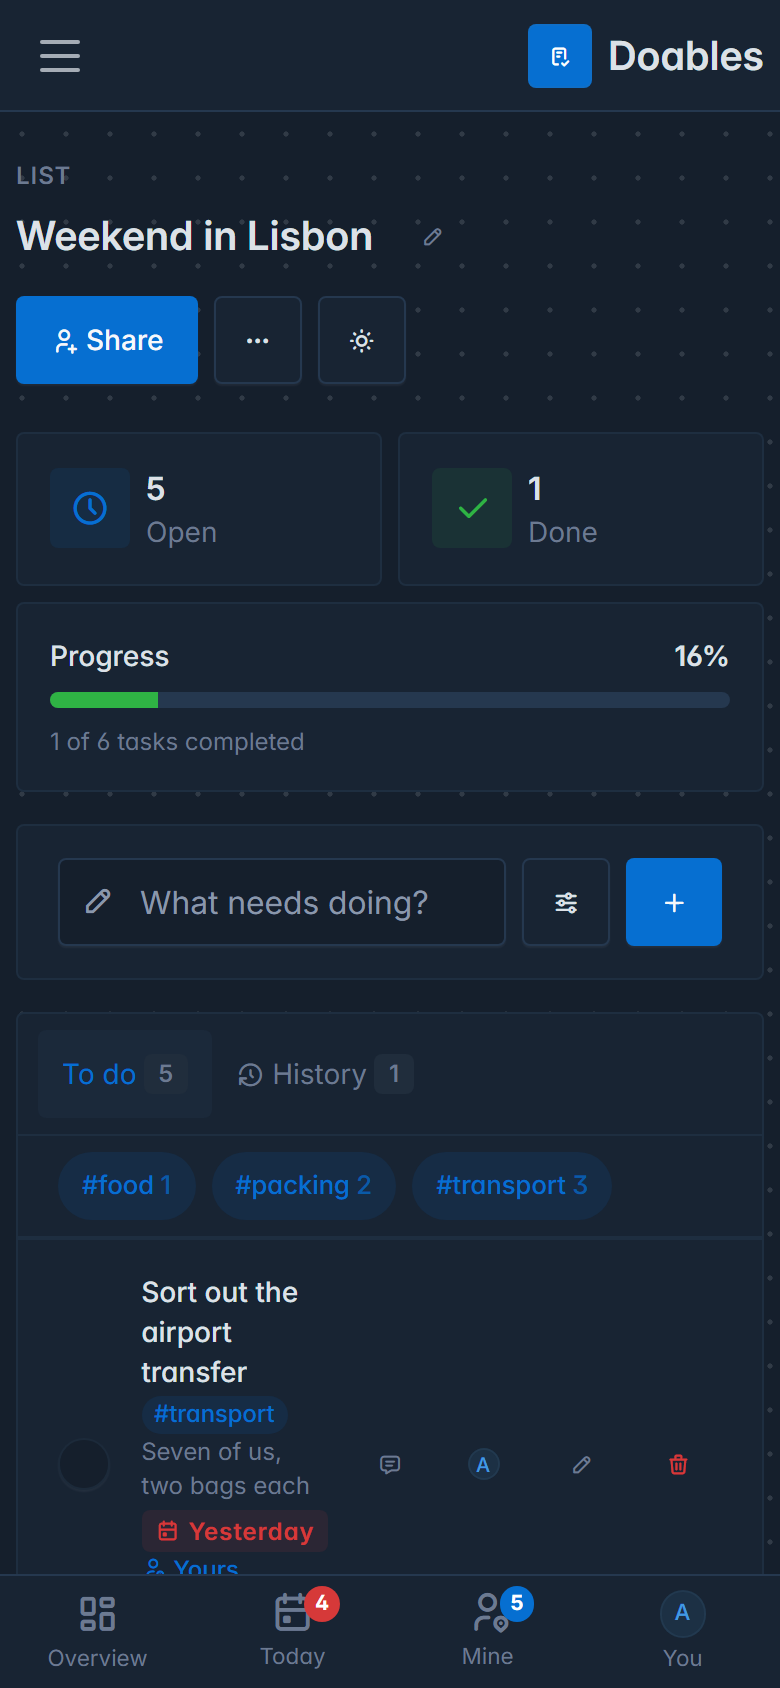
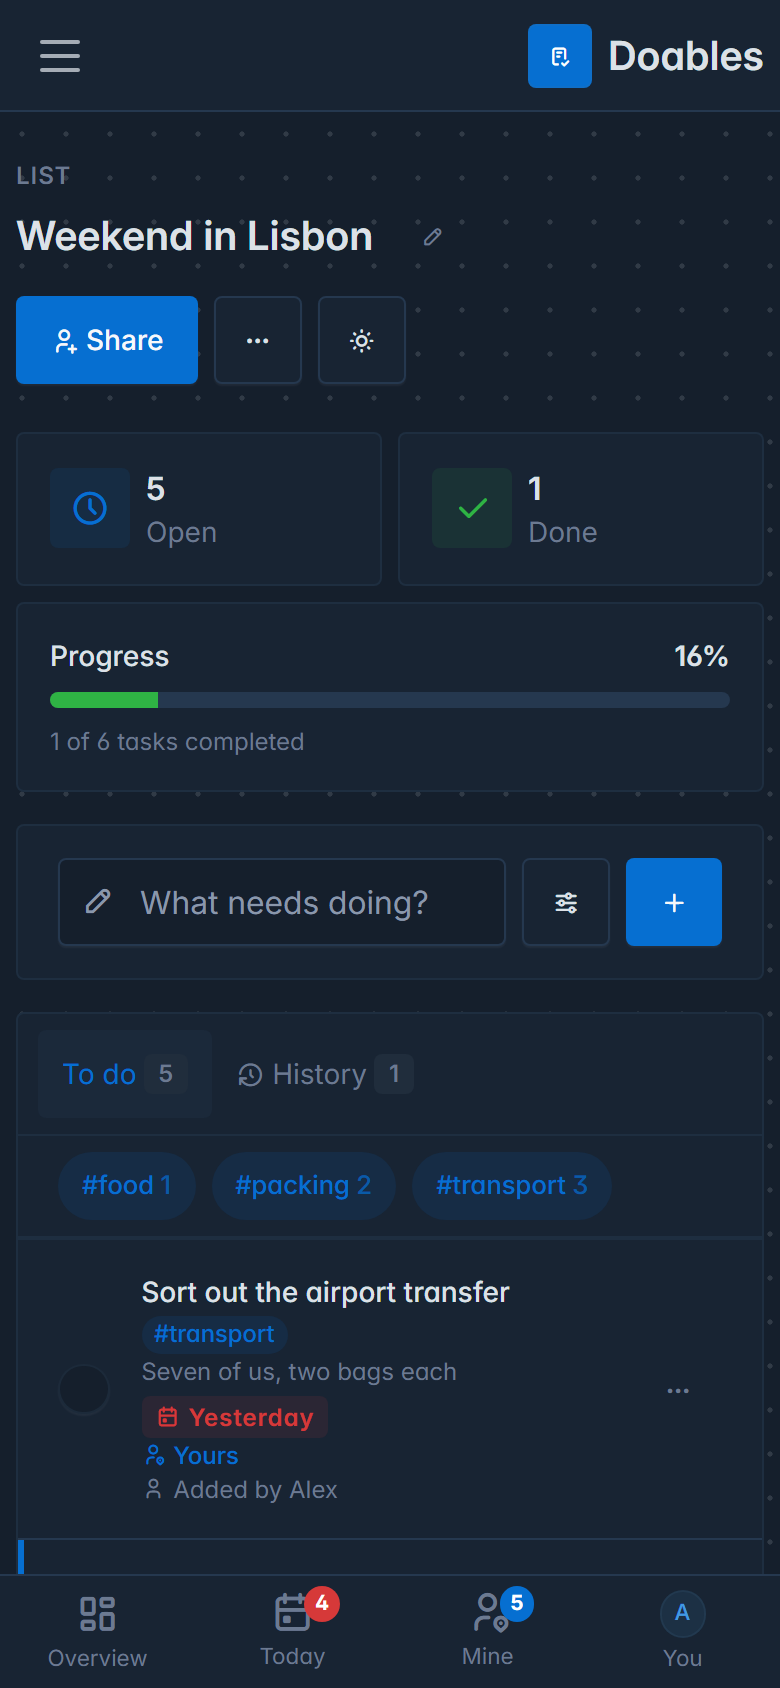
Fold a task's actions into a "more" menu on phones
On a phone the four action buttons (comment, assign, edit, delete) took
about 190px of each row, leaving the title a column narrow enough to break
words in half ("somewhe-re"). They now sit behind one "more" button, and
the title gets the width of the screen (215px, up from about 70).

The menu is the same four buttons, shown as a labelled list, so no row
carries its actions twice. Choosing an action closes it, except opening
the assign list, which opens on top. Tapping elsewhere or Esc closes it,
only one is open at a time, and live updates wait while it is open, as
they do for any open menu. Larger screens are unchanged.

Also fixes live updates stopping after an edit was cancelled with Esc:
the cursor stayed in the now-hidden title field, so the page thought you
were still typing and held back every update until you clicked somewhere.
Esc now returns the cursor to where the edit started, and fields that are
not on screen no longer count as being typed in.

diff --git a/internal/web/templates/partials.html b/internal/web/templates/partials.html
@@ -31,6 +31,7 @@
     .task-row { transition: background .15s; }
     .task-row:hover { background: var(--tblr-bg-surface-secondary); }
     .task-row .task-actions { opacity: 0; transition: opacity .15s; }
+    .task-more { display: none; }
     .task-row:hover .task-actions, .task-row:focus-within .task-actions { opacity: 1; }
     @media (hover: none) { .task-row .task-actions { opacity: 1; } }
     .task-done .task-title { text-decoration: line-through; color: var(--tblr-secondary); }
@@ -180,6 +181,24 @@
       .row > .task-thread-col { padding-left: calc(1.6rem + 1.5rem); }
       .thread-body { padding-left: .5rem; }
       .dropdown-item { padding: .75rem 1rem; }
+      /* A task's actions: one "more" button, opening a menu of them */
+      .task-row .task-more { display: inline-flex; }
+      .task-actions-wrap { position: relative; }
+      .task-row .task-actions { display: none !important; }
+      .task-row.menu-open .task-actions {
+        display: flex !important; flex-direction: column; align-items: stretch; gap: 0 !important; opacity: 1;
+        position: absolute; right: 0; top: calc(100% + .25rem); z-index: 1040; min-width: 13rem; padding: .35rem 0;
+        background: var(--tblr-bg-surface); border: 1px solid var(--tblr-border-color);
+        border-radius: var(--tblr-border-radius); box-shadow: var(--tblr-box-shadow-dropdown, 0 16px 24px rgba(0,0,0,.12)); }
+      .task-row.menu-open .task-actions .btn {
+        width: 100%; height: auto; min-height: 44px; justify-content: flex-start; gap: .75rem;
+        padding: 0 1rem; border-radius: 0; font-size: .9375rem; }
+      .task-row.menu-open .task-actions .btn::after { content: attr(data-label); font-weight: 400; }
+      /* a light highlight, like any menu, rather than the dark pressed button */
+      .task-row.menu-open .task-actions .btn-ghost-secondary:is(:hover, :active, .show) {
+        background: var(--tblr-bg-surface-secondary); color: var(--tblr-body-color); }
+      .task-row.menu-open .task-actions .btn .avatar { width: 1.25rem; height: 1.25rem; font-size: .65rem; }
+      .task-row.menu-open .task-actions form, .task-row.menu-open .task-actions .dropdown { width: 100%; }
       .tag-bar .hashtag { padding: .45rem .75rem; }
       /* quick-add: just the title and a button; description and date sit behind the details toggle */
       #add-task-form .add-extra { display: none; }
@@ -228,14 +247,19 @@
       <span class="badge {{dueClass .DueDate $.Today .Done}}" title="Due {{.DueDate}}"><i class="ti ti-calendar-event me-1"></i>{{dueLabel .DueDate $.Today .Done}}</span>
     </div>
     {{end}}
-    <div class="col-auto task-actions d-flex gap-1">
+    <!-- On a phone the actions fold away behind one "more" button, so the
+         title keeps the width; the menu it opens is these same buttons. -->
+    <div class="col-auto task-actions-wrap">
+    <button type="button" class="btn btn-icon btn-ghost-secondary task-more" aria-expanded="false" aria-controls="actions-{{.ID}}" title="More" aria-label="Actions for this task"><i class="ti ti-dots"></i></button>
+    <div class="task-actions d-flex gap-1" id="actions-{{.ID}}">
       {{if $.ShowThread}}
-      <button type="button" class="btn btn-icon btn-sm btn-ghost-secondary" data-open-thread="{{.ID}}" title="Comment" aria-label="Comment on this task"><i class="ti ti-message"></i></button>
+      <button type="button" class="btn btn-icon btn-sm btn-ghost-secondary" data-open-thread="{{.ID}}" title="Comment" aria-label="Comment on this task" data-label="Comment"><i class="ti ti-message"></i></button>
       {{end}}
       {{if $.Members}}
       <div class="dropdown">
         <button type="button" class="btn btn-icon btn-sm btn-ghost-secondary" data-bs-toggle="dropdown" aria-expanded="false"
-                title="{{if .AssigneeID}}For {{.Assignee}}{{else}}Give this to someone{{end}}" aria-label="Assign this task">
+                title="{{if .AssigneeID}}For {{.Assignee}}{{else}}Give this to someone{{end}}" aria-label="Assign this task"
+                data-label="{{if .AssigneeID}}For {{.Assignee}}{{else}}Give to someone{{end}}">
           {{if .AssigneeID}}<span class="avatar avatar-xs rounded-circle bg-{{color .AssigneeID}}-lt">{{initial .Assignee}}</span>
           {{else}}<i class="ti ti-user-plus"></i>{{end}}
         </button>
@@ -256,11 +280,12 @@
         </div>
       </div>
       {{end}}
-      <button type="button" class="btn btn-icon btn-sm btn-ghost-secondary" data-edit-toggle title="Edit task" aria-label="Edit task"><i class="ti ti-pencil"></i></button>
+      <button type="button" class="btn btn-icon btn-sm btn-ghost-secondary" data-edit-toggle title="Edit task" aria-label="Edit task" data-label="Edit"><i class="ti ti-pencil"></i></button>
       <form method="post" action="/tasks/{{.ID}}/delete" data-inplace data-undo>
         <input type="hidden" name="next" value="{{$.Path}}">
-        <button type="submit" class="btn btn-icon btn-sm btn-ghost-danger" title="Delete task" aria-label="Delete task"><i class="ti ti-trash"></i></button>
+        <button type="submit" class="btn btn-icon btn-sm btn-ghost-danger" title="Delete task" aria-label="Delete task" data-label="Delete"><i class="ti ti-trash"></i></button>
       </form>
+    </div>
     </div>
     {{if $.ShowThread}}
     <!-- The conversation gets a line of its own under the task, so on a phone

diff --git a/internal/web/templates/page.html b/internal/web/templates/page.html
@@ -570,8 +570,11 @@
     // after posting that is exactly where the cursor rests: treating it as
     // busy would stop replies appearing until you clicked somewhere else.
     var idleBox = commentBox(a) && a.value === '';
-    if (a && el.contains(a) && /^(INPUT|TEXTAREA|SELECT)$/.test(a.tagName) && a.type !== 'checkbox' && !idleBox) return true;
-    if (el.querySelector('.dropdown-menu.show')) return true; // a menu is open: don't yank it away
+    // A field that is no longer on screen (an edit cancelled with Esc) is not
+    // being typed in, even if the cursor was left behind in it.
+    var shown = a && a.offsetParent !== null;
+    if (a && shown && el.contains(a) && /^(INPUT|TEXTAREA|SELECT)$/.test(a.tagName) && a.type !== 'checkbox' && !idleBox) return true;
+    if (el.querySelector('.dropdown-menu.show, .task-row.menu-open')) return true; // a menu is open: don't yank it away
     return !!el.querySelector('.is-editing');
   }
 
@@ -770,6 +773,34 @@
     }
   });
 
+  // ---- a task's "more" menu, on phones ----
+  function closeTaskMenus() {
+    var closed = false;
+    document.querySelectorAll('.task-row.menu-open').forEach(function (row) {
+      row.classList.remove('menu-open');
+      row.querySelector('.task-more').setAttribute('aria-expanded', 'false');
+      closed = true;
+    });
+    if (closed) flushPending();
+  }
+
+  document.addEventListener('click', function (e) {
+    var more = e.target.closest('.task-more');
+    if (more) {
+      var row = more.closest('.task-row');
+      var opening = !row.classList.contains('menu-open');
+      closeTaskMenus();
+      if (opening) {
+        row.classList.add('menu-open');
+        more.setAttribute('aria-expanded', 'true');
+      }
+      return;
+    }
+    var inMenu = e.target.closest('.task-row.menu-open .task-actions');
+    // Anything but opening the assign list inside the menu is done with it.
+    if (!inMenu || !e.target.closest('[data-bs-toggle="dropdown"]')) closeTaskMenus();
+  }, true);
+
   // ---- inline editing ----
   document.addEventListener('click', function (e) {
     // "Show more" fetches the longer page and swaps it in, so the tasks you
@@ -805,7 +836,7 @@
         var input = scope.querySelector('[data-edit-form] input[type=text]');
         if (input) { input.focus(); input.select(); }
       } else {
-        flushPending();
+        stopEditing(scope);
       }
       return;
     }
@@ -844,10 +875,24 @@
     }
   });
 
+  // stopEditing puts the cursor back where the edit started (the pencil, or
+  // on a phone the task's "more" button), rather than in a form that is no
+  // longer on screen, and lets through live updates held back meanwhile.
+  function stopEditing(scope) {
+    scope.classList.remove('is-editing');
+    var back = scope.querySelector('[data-edit-view] [data-edit-toggle]');
+    if (!back || back.offsetParent === null) back = scope.querySelector('.task-more');
+    if (back && back.offsetParent !== null) back.focus();
+    else if (document.activeElement && document.activeElement.blur) document.activeElement.blur();
+    flushPending();
+  }
+
   document.addEventListener('keydown', function (e) {
     if (e.key !== 'Escape') return;
+    var openMenu = document.querySelector('.task-row.menu-open .task-more');
+    if (openMenu) { closeTaskMenus(); openMenu.focus(); return; }
     var scope = e.target.closest && e.target.closest('.is-editing');
-    if (scope) { scope.classList.remove('is-editing'); flushPending(); }
+    if (scope) stopEditing(scope);
   });
 
   // ---- "+" next to Lists: reveal an inline field for a new list's name ----

diff --git a/README.md b/README.md
@@ -138,7 +138,8 @@ font down to the icons the templates actually use (8KB rather than 844KB).
 
 The layout adapts to the screen: on phones and tablets the sidebar becomes a hamburger menu and a **bottom tab bar**
 (Overview, Today with its badge, and your profile) appears; quick-add is a single line with a details button for the
-description and due date; touch targets are at least 44px; inputs are 16px so iPhones don't zoom in when you tap them.
+description and due date; a task's actions (comment, assign, edit, delete) fold into one **⋯** button, so its title
+gets the width of the screen; touch targets are at least 44px; inputs are 16px so iPhones don't zoom in when you tap them.
 
 It is also **installable**: in Chrome/Edge choose *Install*, on iOS Safari *Share → Add to Home Screen*. You get an icon and a
 window without browser chrome. There is no service worker, so it needs a connection to your server (it is not usable
